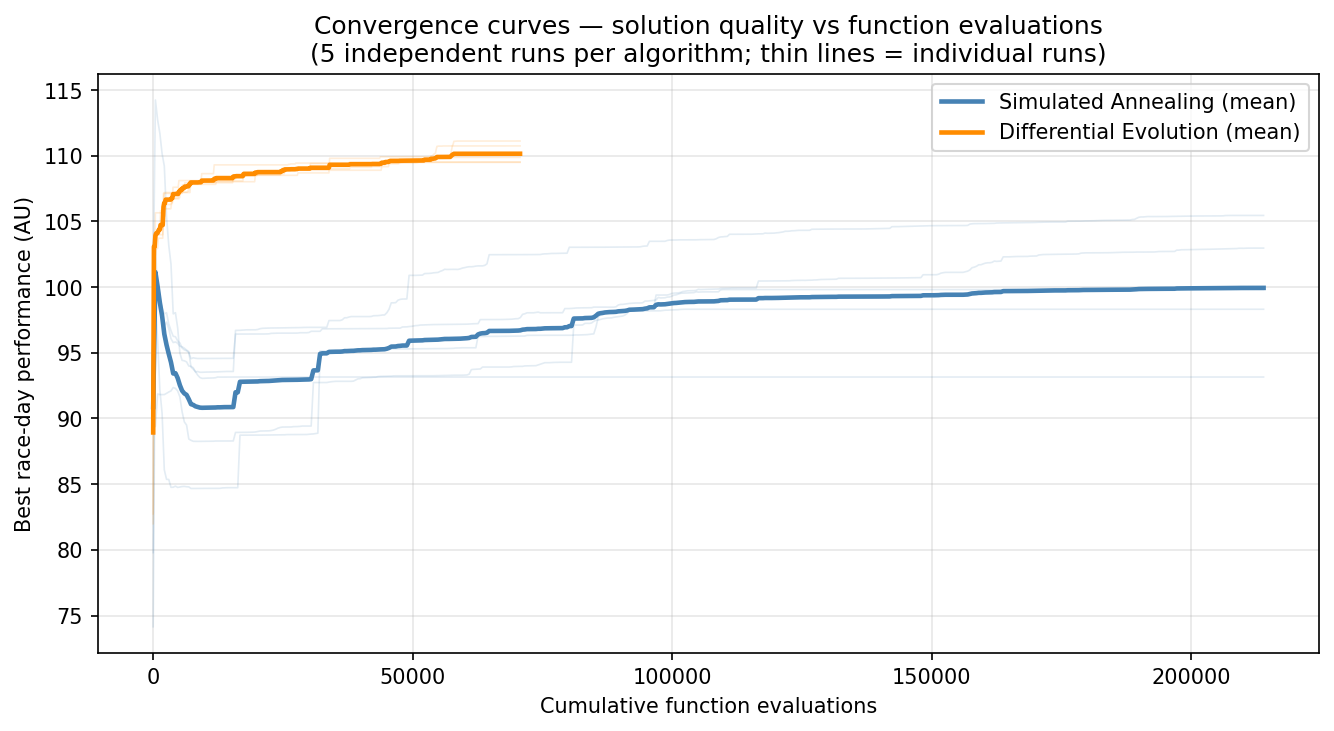
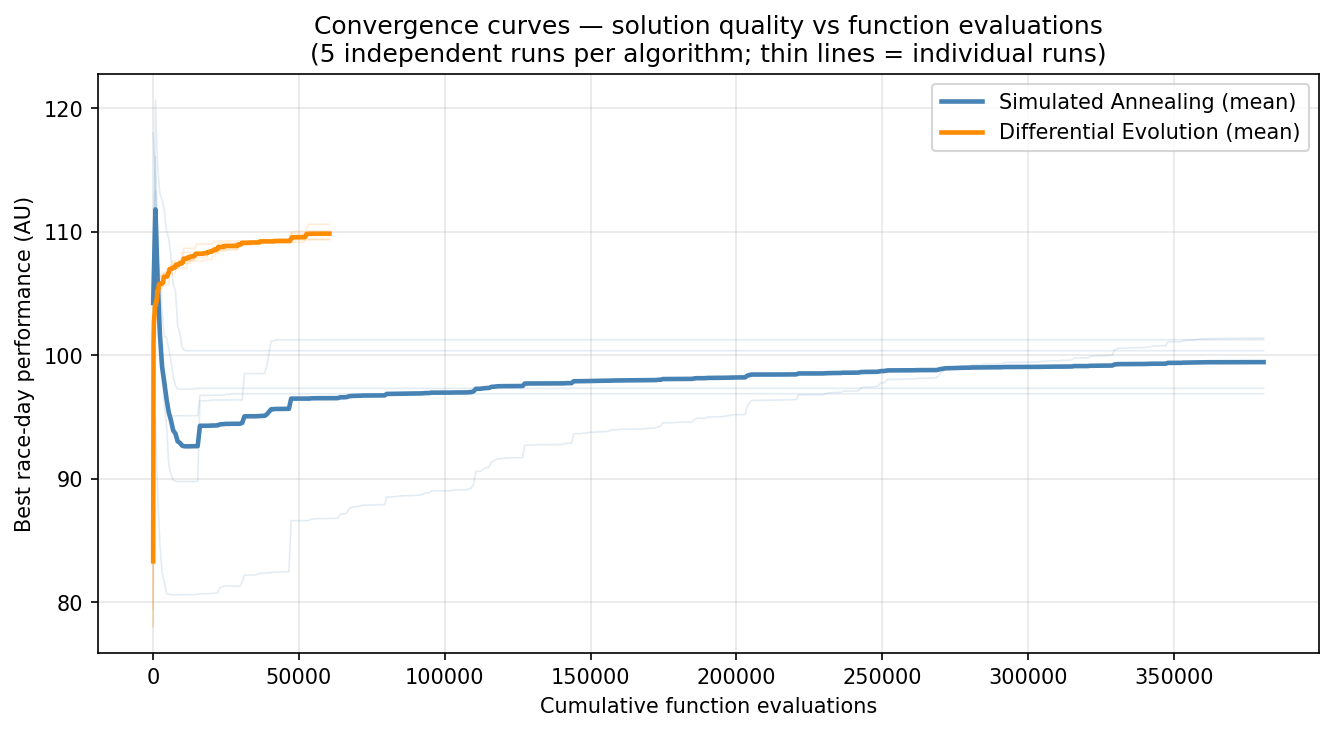
test convergence curve

diff --git a/optimize_sa.py b/optimize_sa.py
@@ -18,63 +18,8 @@ output_dir     = os.path.join(script_dir, 'output')
 os.makedirs(output_dir, exist_ok=True)
 PENALTY_WEIGHT = 1e4   # multiplier that converts constraint violations into cost
 
-
 # ─────────────────────────────────────────────────────────────────────────────
-# APPROACH A — HARD CONSTRAINTS  (repair / projection)
-# Each candidate solution is projected onto the feasible region before the
-# model is evaluated.  The optimizer never sees an infeasible point.
-# ─────────────────────────────────────────────────────────────────────────────
-def apply_all_constraints(loads: np.ndarray) -> np.ndarray:
-    """Projects a candidate load vector onto the feasible region."""
-    loads = np.maximum(0, loads)                       # non-negative loads
-
-    # At least one rest day (0 km) per week
-    for w in range(len(loads) // 7):
-        min_day_idx = np.argmin(loads[w*7:(w+1)*7])
-        loads[w*7 + min_day_idx] = 0.0
-
-    # First week anchored to FIRST_WEEK_KM
-    first_week_sum = loads[:7].sum()
-    if first_week_sum > 0:
-        loads[:7] *= (FIRST_WEEK_KM / first_week_sum)
-    else:
-        loads[:7] = FIRST_WEEK_KM / 6.0
-        loads[np.argmin(loads[:7])] = 0.0
-
-    # Max 10 % ramp rate per week
-    for w in range(1, len(loads) // 7):
-        prev_sum = loads[(w-1)*7 : w*7].sum()
-        curr_sum = loads[w*7 : (w+1)*7].sum()
-        if curr_sum > prev_sum * (1 + RAMP_RATE):
-            scale = (prev_sum * (1 + RAMP_RATE)) / curr_sum if curr_sum > 0 else 0
-            loads[w*7 : (w+1)*7] *= scale
-
-    # At least one run of exactly LONG_RUN_KM (boost the busiest day if needed)
-    max_day_idx = np.argmax(loads)
-    if loads[max_day_idx] < LONG_RUN_KM:
-        loads[max_day_idx] = LONG_RUN_KM
-
-    # No single run above MAX_RUN_KM
-    loads = np.minimum(loads, MAX_RUN_KM)
-
-    # No load in the open interval (0, 5): snap to 0 if < 2.5, else to 5
-    loads = np.where((loads > 0) & (loads < 5), np.where(loads < 2.5, 0.0, 5.0), loads)
-
-    # Race day
-    loads[-1] = MARATHON_KM
-
-    return loads
-
-
-def busso_objective_hard(loads: np.ndarray) -> float:
-    """Repair → simulate → return negative race-day performance."""
-    loads = apply_all_constraints(loads.copy())
-    perf, _, _, _ = simulate_busso(loads, params_busso)
-    return -perf[-1]
-
-
-# ─────────────────────────────────────────────────────────────────────────────
-# APPROACH B — PENALTY CONSTRAINTS
+# PENALTY CONSTRAINTS
 # Infeasible solutions are allowed but penalised.
 # ─────────────────────────────────────────────────────────────────────────────
 def busso_objective_penalty(loads: np.ndarray) -> float:
@@ -130,18 +75,46 @@ def busso_objective_penalty(loads: np.ndarray) -> float:
 if __name__ == "__main__":
     print("Running Dual Annealing — penalty constraints …")
 
-    _convergence_history: List[float] = []
-    _best_so_far = [np.inf]
+    _convergence_history: List[tuple[float, float]] = []
+    _best_perf_so_far = [-np.inf]
+    _nfev = [0]
+
+    def _counted_objective(loads: np.ndarray) -> float:
+        _nfev[0] += 1
+        perf, _, _, _ = simulate_busso(loads, params_busso)
+        race_day_perf = perf[-1]
+        if race_day_perf > _best_perf_so_far[0]:
+            _best_perf_so_far[0] = race_day_perf
+        _convergence_history.append((_nfev[0], _best_perf_so_far[0]))
+        return busso_objective_penalty(loads)
+
+    PATIENCE   = 10    # stop after this many callbacks with no improvement
+    TOLERANCE  = 0.001  # minimum improvement to count as progress
+    _no_improve_count = [0]
+    _last_best = [-np.inf]
 
     def _sa_callback(x, f, context):
-        if f < _best_so_far[0]:
-            _best_so_far[0] = f
-        _convergence_history.append(_best_so_far[0])
+        perf, _, _, _ = simulate_busso(x, params_busso)
+        race_day_perf = perf[-1]
+        if race_day_perf > _best_perf_so_far[0]:
+            _best_perf_so_far[0] = race_day_perf
+        _convergence_history.append((_nfev[0], _best_perf_so_far[0]))
+
+        if _best_perf_so_far[0] - _last_best[0] > TOLERANCE:
+            _last_best[0] = _best_perf_so_far[0]
+            _no_improve_count[0] = 0
+        else:
+            _no_improve_count[0] += 1
+
+        if _no_improve_count[0] >= PATIENCE:
+            print(f"Early stopping: no improvement > {TOLERANCE} for {PATIENCE} callbacks.")
+            return True  # signals dual_annealing to stop
+        return False
 
     res_penalty = dual_annealing(
-        busso_objective_penalty,
+        _counted_objective,
         bounds=[(0, MAX_RUN_KM)] * n_days,
-        maxiter=100,
+        maxiter=1000,
         seed=42,
         callback=_sa_callback,
     )
@@ -171,4 +144,7 @@ if __name__ == "__main__":
         _convergence_history, params_busso.k1,
         label='Simulated Annealing', suffix='_sa', save_dir=output_dir,
     )
+    # save_all_plots(
+    #     _convergence_history, label='Simulated Annealing', suffix='_sa', save_dir=output_dir,
+    # )
     plt.show()

diff --git a/plots.py b/plots.py
@@ -136,16 +136,23 @@ def plot_performance_dynamics(
 
 
 def plot_convergence(
-    history: List[float],
+    history: List[tuple[float, float]],
     label: str,
     suffix: str = '',
     save_dir: str = None,
 ) -> None:
     """Plot best objective value vs. iteration to visualise convergence."""
+    # THRESHOLD = 1e5
+    # clipped = [(i, v) for i, v in enumerate(history) if v < THRESHOLD]
+    # if clipped:
+    #     xs, ys = zip(*clipped)
+    # else:
+    #     xs, ys = range(len(history)), history
+
     fig, ax = plt.subplots(figsize=(10, 5))
-    ax.plot(history, color='steelblue', linewidth=1.5, label='Best objective (− race-day perf)')
-    ax.set_xlabel('Iteration')
-    ax.set_ylabel('Best objective value')
+    ax.plot([i for i, _ in history], [v for _, v in history], color='steelblue', linewidth=1.5, label='Best race-day performance')
+    ax.set_xlabel('Function evaluations')
+    ax.set_ylabel('Best race-day performance (AU)')
     ax.set_title(f'Convergence ({label})')
     ax.grid(alpha=0.3)
     ax.legend()
@@ -190,7 +197,7 @@ def save_all_plots(
     g: np.ndarray,
     h: np.ndarray,
     k2: np.ndarray,
-    convergence_history: List[float],
+    convergence_history: List[tuple[float, float]],
     k1_val: float,
     label: str,
     suffix: str,
@@ -200,8 +207,10 @@ def save_all_plots(
     Call all 5 plot functions, saving each to its own PNG file.
     Figures are kept open so the caller can follow with plt.show().
     """
-    plot_daily_loads(loads,  label=label, suffix=suffix, save_dir=save_dir)
-    plot_weekly_volume(loads, label=label, suffix=suffix, save_dir=save_dir)
-    plot_performance_dynamics(loads, perf, g, h, label=label, suffix=suffix, save_dir=save_dir)
+    # plot_daily_loads(loads,  label=label, suffix=suffix, save_dir=save_dir)
+    # plot_weekly_volume(loads, label=label, suffix=suffix, save_dir=save_dir)
+    # plot_performance_dynamics(loads, perf, g, h, label=label, suffix=suffix, save_dir=save_dir)
+    # print("Convergence history (iteration, best objective):")
+    # print(convergence_history)
     plot_convergence(convergence_history, label=label, suffix=suffix, save_dir=save_dir)
-    plot_k1_and_k2(loads, k2, k1_val, label=label, suffix=suffix, save_dir=save_dir)
+    # plot_k1_and_k2(loads, k2, k1_val, label=label, suffix=suffix, save_dir=save_dir)

diff --git a/compare_optimizers.py b/compare_optimizers.py
@@ -34,7 +34,7 @@ from optimize_de import (
     apply_all_constraints as de_repair,
     bounds as de_bounds,
 )
-from optimize_sa import busso_objective_penalty, apply_all_constraints as sa_repair
+from optimize_sa import busso_objective_penalty
 
 script_dir = os.path.dirname(os.path.abspath(__file__))
 output_dir = os.path.join(script_dir, "output")
@@ -85,6 +85,40 @@ def _make_tracked(fn, perf_fn=None):
     wrapper.history = history
     return wrapper
 
+# def _make_tracked(fn, perf_fn=None):
+#     count     = [0]
+#     best_perf = [-np.inf]
+#     history   = []          # list of (cumulative_nfev, best_performance_so_far)
+
+#     def wrapper(x):
+#         val = fn(x)
+#         count[0] += 1
+#         current_perf = perf_fn(x, val) if perf_fn is not None else -val
+#         if current_perf > best_perf[0]:
+#             best_perf[0] = current_perf
+#         history.append((count[0], best_perf[0]))
+#         return val
+
+#     wrapper.history = history
+#     return wrapper
+
+# def _make_tracked(fn):
+#     """Wrap an objective so every call appends (nfev, best_perf) to .history."""
+#     count  = [0]
+#     best   = [np.inf]
+#     history = []          # list of (cumulative_nfev, best_performance_so_far)
+
+#     def wrapper(x):
+#         val = fn(x)
+#         count[0] += 1
+#         if val < best[0]:
+#             best[0] = val
+#         history.append((count[0], -best[0]))   # performance = -objective
+#         return val
+
+#     wrapper.history = history
+#     return wrapper
+
 
 # ─────────────────────────────────────────────
 # SINGLE-RUN HELPERS
@@ -92,8 +126,7 @@ def _make_tracked(fn, perf_fn=None):
 
 def _sa_perf_fn(x, val):
     """True race-day performance for an SA candidate (simulate after repair)."""
-    repaired = sa_repair(x.copy())
-    perf, _, _, _ = simulate_busso(repaired, params_busso)
+    perf, _, _, _ = simulate_busso(x.copy(), params_busso)
     return perf[-1]
 
 
